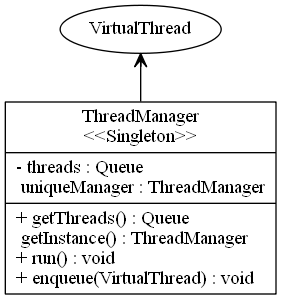
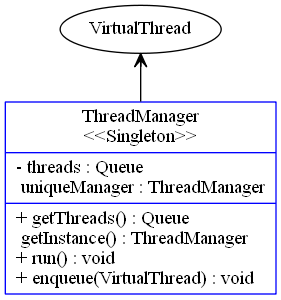
Added Singleton color to graph

Changed region(s): [[0.0, 0.33, 0.9964, 0.99]]

diff --git a/src/problem/code/GraphDeclarationCode.java b/src/problem/code/GraphDeclarationCode.java
@@ -18,11 +18,15 @@ public class GraphDeclarationCode implements IGraphCode {
 	@Override
 	public String getCode(HashMap<String, String> items) {
 		IPatternDetector detector = new SingletonPatternDetector(items);
+		boolean isSingleton = detector.isPattern();
 		StringBuilder sb = new StringBuilder();
 		String className = Helpers.getName(items.get("className"), "/");
 
 		sb.append(className + " [\n");
 		sb.append("shape=\"record\",\n");
+		if (isSingleton) {
+			sb.append("color=\"blue\",\n");
+		}
 		sb.append("label = \"{");
 
 		int access = Integer.parseInt(items.get("access"));
